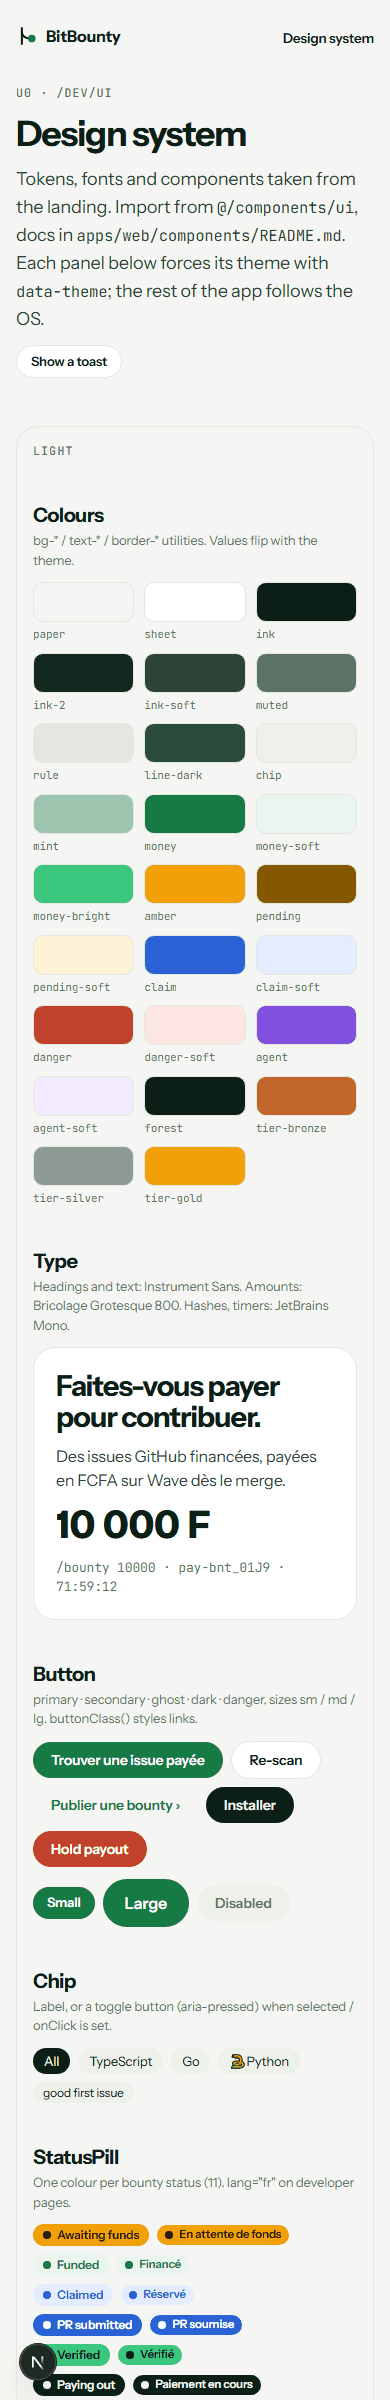
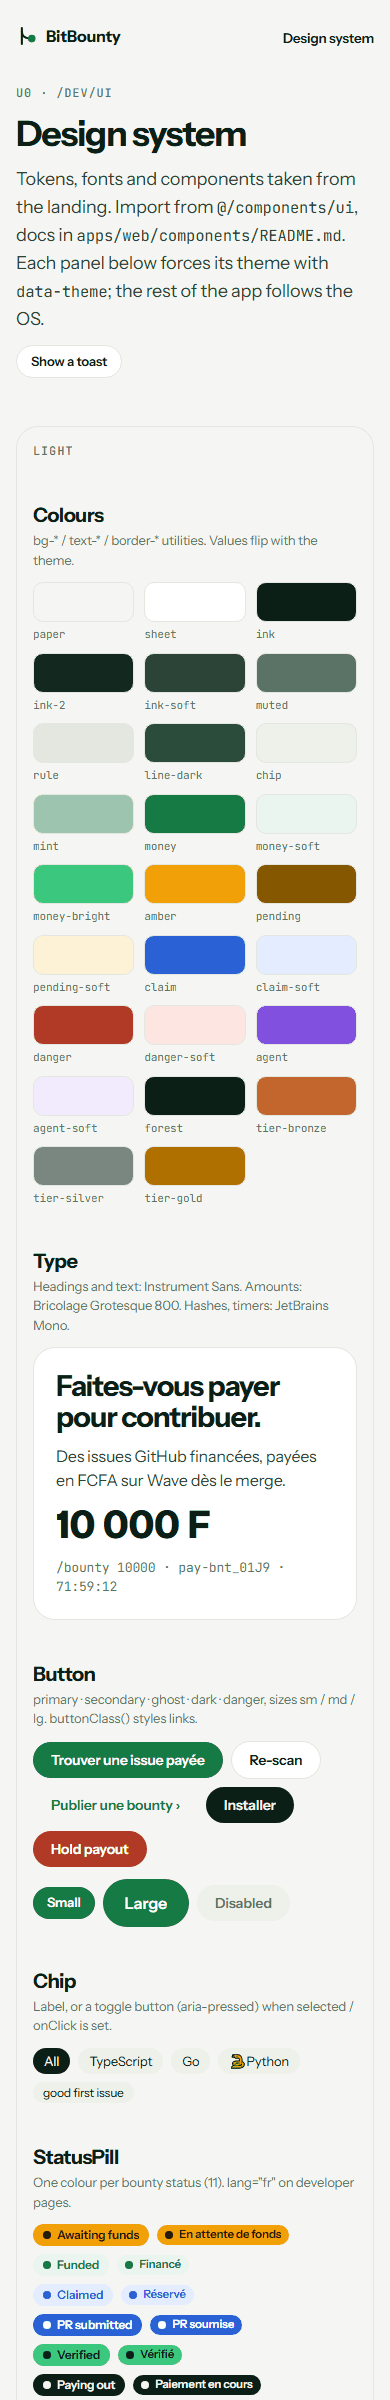
U0: review fixes (distinct dark Verified, AA pill text, live board dark tokens, Chip toggle semantics)
(cherry picked from commit 5416e1935056a137ccc1731b021429775b54f122)

Changed region(s): [[0.3692, 0.4688, 0.6462, 0.5], [0.0308, 0.9688, 0.1538, 1.0]]

diff --git a/apps/web/app/globals.css b/apps/web/app/globals.css
@@ -28,20 +28,22 @@
   --bb-money-strong: #0e5a32;
   --bb-money-soft: #e9f5ee;
   --bb-money-bright: #3cc77e;
+  --bb-bright: #3cc77e;
   --bb-amber: #f2a007;
   --bb-on-amber: #2b1a00;
   --bb-pending: #855800;
   --bb-pending-soft: #fdf1d6;
   --bb-claim: #2a62d6;
   --bb-claim-soft: #e4edff;
-  --bb-danger: #c2412d;
+  --bb-danger: #b13a26;
   --bb-danger-soft: #fde6e1;
   --bb-agent: #8250df;
   --bb-agent-soft: #f1ebfd;
+  --bb-agent-strong: #7444d4;
 
   --bb-tier-bronze: #c2662d;
-  --bb-tier-silver: #8e9a94;
-  --bb-tier-gold: #f2a007;
+  --bb-tier-silver: #7a8781;
+  --bb-tier-gold: #b07000;
 
   --bb-forest: #0b1f17;
   --bb-on-forest: #f4f5f1;
@@ -62,6 +64,7 @@
     --bb-money: #3cc77e;
     --bb-money-strong: #6ad99c;
     --bb-money-soft: #133a28;
+    --bb-bright: #a7e8c4;
     --bb-pending: #f2b440;
     --bb-pending-soft: #3a2c0b;
     --bb-claim: #82a8ff;
@@ -70,7 +73,9 @@
     --bb-danger-soft: #45201a;
     --bb-agent: #b392f0;
     --bb-agent-soft: #2c2044;
+    --bb-agent-strong: #b392f0;
     --bb-tier-silver: #b9c4be;
+    --bb-tier-gold: #f2a007;
     --bb-on-solid: #0b1f17;
     color-scheme: dark;
   }
@@ -88,6 +93,7 @@
   --bb-money: #3cc77e;
   --bb-money-strong: #6ad99c;
   --bb-money-soft: #133a28;
+  --bb-bright: #a7e8c4;
   --bb-pending: #f2b440;
   --bb-pending-soft: #3a2c0b;
   --bb-claim: #82a8ff;
@@ -96,7 +102,9 @@
   --bb-danger-soft: #45201a;
   --bb-agent: #b392f0;
   --bb-agent-soft: #2c2044;
+  --bb-agent-strong: #b392f0;
   --bb-tier-silver: #b9c4be;
+  --bb-tier-gold: #f2a007;
   --bb-on-solid: #0b1f17;
   color-scheme: dark;
 }
@@ -116,6 +124,7 @@
   --color-money-strong: var(--bb-money-strong);
   --color-money-soft: var(--bb-money-soft);
   --color-money-bright: var(--bb-money-bright);
+  --color-bright: var(--bb-bright);
   --color-amber: var(--bb-amber);
   --color-on-amber: var(--bb-on-amber);
   --color-pending: var(--bb-pending);
@@ -126,6 +135,7 @@
   --color-danger-soft: var(--bb-danger-soft);
   --color-agent: var(--bb-agent);
   --color-agent-soft: var(--bb-agent-soft);
+  --color-agent-strong: var(--bb-agent-strong);
   --color-tier-bronze: var(--bb-tier-bronze);
   --color-tier-silver: var(--bb-tier-silver);
   --color-tier-gold: var(--bb-tier-gold);

diff --git a/apps/web/components/ui/design-system.test.tsx b/apps/web/components/ui/design-system.test.tsx
@@ -45,6 +45,13 @@ describe("tokens", () => {
     expect(names(media).length).toBeGreaterThan(15);
     for (const n of names(media)) expect(light).toContain(n);
   });
+
+  it("keeps Verified (bright) and Paid (money-solid) apart in dark mode", () => {
+    const forced = css.slice(css.indexOf('[data-theme="dark"] {'), css.indexOf("@theme inline {"));
+    const value = (name: string) => forced.match(new RegExp(`--bb-${name}: (#[0-9a-f]{6});`))?.[1];
+    expect(value("bright")).toBeDefined();
+    expect(value("bright")).not.toBe(value("money"));
+  });
 });
 
 describe("Button", () => {
@@ -67,6 +74,12 @@ describe("Chip", () => {
   it("is a toggle button with aria-pressed when selected is set", () => {
     expect(html(<Chip selected>All</Chip>)).toMatch(/^<button type="button" aria-pressed="true"[^>]*bg-ink text-paper/);
     expect(html(<Chip selected={false}>Go</Chip>)).toContain('aria-pressed="false"');
+  });
+
+  it("is a plain button, not a toggle, with only onClick", () => {
+    const out = html(<Chip onClick={() => {}}>Clear</Chip>);
+    expect(out.startsWith("<button")).toBe(true);
+    expect(out).not.toContain("aria-pressed");
   });
 });
 

diff --git a/apps/web/components/ui/tone.ts b/apps/web/components/ui/tone.ts
@@ -34,17 +34,17 @@ export const TONES: readonly Tone[] = [
 
 /** Background + text (+ border for outline), readable in light and dark. */
 export const TONE_PILL: Record<Tone, string> = {
-  neutral: "bg-chip text-muted",
+  neutral: "bg-chip text-ink-soft",
   outline: "border border-rule text-muted",
   money: "bg-money-soft text-money",
   "money-solid": "bg-money text-on-solid",
-  bright: "bg-money-bright text-forest",
+  bright: "bg-bright text-forest",
   pending: "bg-pending-soft text-pending",
   amber: "bg-amber text-on-amber",
   claim: "bg-claim-soft text-claim",
   "claim-solid": "bg-claim text-on-solid",
   danger: "bg-danger-soft text-danger",
-  agent: "bg-agent-soft text-agent",
+  agent: "bg-agent-soft text-agent-strong",
   ink: "bg-ink text-paper",
 };
 
@@ -54,7 +54,7 @@ export const TONE_DOT: Record<Tone, string> = {
   outline: "bg-muted",
   money: "bg-money",
   "money-solid": "bg-money",
-  bright: "bg-money-bright",
+  bright: "bg-bright",
   pending: "bg-pending",
   amber: "bg-amber",
   claim: "bg-claim",

diff --git a/apps/web/components/ui/chip.tsx b/apps/web/components/ui/chip.tsx
@@ -3,8 +3,8 @@ import { cx } from "./tone";
 
 export interface ChipProps extends Omit<ButtonHTMLAttributes<HTMLButtonElement>, "children"> {
   /**
-   * Toggle state. When set (true or false) or when `onClick` is passed, the chip is a <button aria-pressed>;
-   * otherwise it is a plain <span> label.
+   * Toggle state. When set (true or false) the chip is a <button aria-pressed>. With only `onClick` it is a plain
+   * button (no pressed state); with neither, a <span> label (button attributes are then ignored).
    */
   selected?: boolean;
   /** Leading icon or emoji. */
@@ -34,7 +34,7 @@ export function Chip({ selected, icon, size = "md", className, children, type = 
   return (
     <button
       type={type}
-      aria-pressed={!!selected}
+      aria-pressed={selected}
       className={cx(classes, "transition disabled:cursor-not-allowed disabled:opacity-50", !selected && "hover:bg-rule")}
       {...rest}
     >

diff --git a/apps/web/components/ui/index.ts b/apps/web/components/ui/index.ts
@@ -22,8 +22,8 @@ export { EmptyState, ErrorState, LoadingState, Skeleton } from "./states";
 export type { EmptyStateProps, SkeletonProps } from "./states";
 export { BOUNTY_STATUSES, STATUS_META, statusMeta } from "./status";
 export type { BountyStatus, StatusMeta } from "./status";
-export { StatusPill } from "./status-pill";
-export type { StatusPillProps } from "./status-pill";
+export { StatusBadge, StatusPill } from "./status-pill";
+export type { StatusPillProps, StatusPillProps as StatusBadgeProps } from "./status-pill";
 export { Table, TBody, Td, Th, THead, Tr } from "./table";
 export type { TdProps, TrProps } from "./table";
 export { Toast } from "./toast";

diff --git a/apps/web/components/ui/avatar.tsx b/apps/web/components/ui/avatar.tsx
@@ -1,7 +1,7 @@
 import { cx } from "./tone";
 
-/** Initials backgrounds: the landing's avatar orange plus the palette's strong tones (white text on all). */
-const AVATAR_COLORS = ["#c2662d", "#167a45", "#2a62d6", "#8250df", "#13291f", "#b04a2f"];
+/** Initials backgrounds: the landing's avatar orange (a shade darker for AA) and the palette's strong tones; white text passes on all. */
+const AVATAR_COLORS = ["#b35b25", "#167a45", "#2a62d6", "#7444d4", "#0e5a32", "#b13a26"];
 
 /** Hunter tier (U3: from paid bounties). Drawn as a coloured ring around the avatar. */
 export type Tier = "bronze" | "silver" | "gold";

diff --git a/apps/web/components/ui/toaster.tsx b/apps/web/components/ui/toaster.tsx
@@ -26,7 +26,7 @@ export function ToastProvider({ children }: { children: ReactNode }) {
   return (
     <ToastContext.Provider value={show}>
       {children}
-      <div className="pointer-events-none fixed inset-x-4 bottom-4 z-50 grid justify-items-center gap-2 sm:left-auto sm:right-6 sm:justify-items-end">
+      <div aria-live="polite" className="pointer-events-none fixed inset-x-4 bottom-4 z-50 grid justify-items-center gap-2 sm:left-auto sm:right-6 sm:justify-items-end">
         {items.map((t) => (
           <ToastItem key={t.id} item={t} onDismiss={dismiss} />
         ))}

diff --git a/apps/web/app/dev/ui/page.tsx b/apps/web/app/dev/ui/page.tsx
@@ -212,8 +212,8 @@ function Showcase() {
           <Avatar initials="A" size="sm" />
           <Avatar initials="MS" />
           <Avatar initials="AN" size="lg" tier="bronze" label="@awa, Bronze tier" />
-          <Avatar initials="KD" size="lg" tier="silver" />
-          <Avatar initials="FS" size="xl" tier="gold" />
+          <Avatar initials="KD" size="lg" tier="silver" label="@khady, Silver tier" />
+          <Avatar initials="FS" size="xl" tier="gold" label="@fatou, Gold tier" />
         </div>
       </Block>
 

diff --git a/apps/web/components/ui/amount.tsx b/apps/web/components/ui/amount.tsx
@@ -35,6 +35,7 @@ export interface AmountProps {
   size?: "sm" | "md" | "lg" | "xl";
   /** Money green (landed money). */
   money?: boolean;
+  /** On the big number when it is alone, on the two-line wrapper when a second currency is shown. */
   className?: string;
 }
 

diff --git a/apps/web/components/ui/status-pill.tsx b/apps/web/components/ui/status-pill.tsx
@@ -27,3 +27,6 @@ export function StatusPill({ status, lang = "en", size = "md", className }: Stat
     </Pill>
   );
 }
+
+/** @deprecated W1 name, kept so open branches keep compiling. Use StatusPill. */
+export const StatusBadge = StatusPill;

diff --git a/apps/web/components/README.md b/apps/web/components/README.md
@@ -9,7 +9,8 @@ Components are server components unless noted; wrap them in your own client comp
 Raw values on `--bb-*`, redefined for dark mode, exposed to Tailwind through `@theme inline`. Use the utilities (`bg-paper`, `text-ink`, `border-rule`…) and dark mode comes for free.
 
 - **Dark mode** follows the OS, or force it with `data-theme="dark|light"` on `<html>` **or on any element** (a subtree can be themed; `/dev/ui` does this). Give a themed subtree `bg-paper text-ink`.
-- **Dark palette** = the landing's dark band: ink background, ink-2 cards, line-dark hairlines, mint secondary text.
+- **Dark palette** = the landing's dark band: ink page, deep-green (`#13291F`, landing ink-2) cards, line-dark hairlines, mint secondary text.
+- Hex values only appear in `globals.css` and in fixed mockup colours (PhoneFrame bezel/notification, Avatar initials backgrounds).
 
 | Utility | Landing name | Light / dark | Use |
 |---|---|---|---|
@@ -24,14 +25,15 @@ Raw values on `--bb-*`, redefined for dark mode, exposed to Tailwind through `@t
 | `chip` | chip | `#EEF0EA` / `#1F3A2D` | chips, neutral pills |
 | `mint` | mint | `#9DC4AE` | text on dark surfaces (constant) |
 | `money`, `money-soft`, `money-strong` | green | `#167A45` / `#3CC77E` | money held or landed, primary buttons (`money-strong` = hover) |
-| `money-bright` | green-bright | `#3CC77E` | checks passed, "paying" (constant) |
+| `money-bright` | green-bright | `#3CC77E` | bright green on dark surfaces, /live (constant) |
+| `bright` | green-bright | `#3CC77E` / `#A7E8C4` | the Verified pill fill (paler in dark so it never matches Paid) |
 | `amber`, `on-amber` | amber | `#F2A007` on `#2B1A00` | awaiting funds (solid tag, constant) |
 | `pending`, `pending-soft` | (amber, text-safe) | `#855800` / `#F2B440` | on hold, warnings |
 | `claim`, `claim-soft` | (app only) | blue | a developer is on it |
 | `danger`, `danger-soft` | (app only) | red | payout failed, errors |
-| `agent`, `agent-soft` | purple | `#8250DF` / `#B392F0` | funded by an AI agent |
-| `tier-bronze/silver/gold` | | | Avatar tier rings (U3) |
-| `forest`, `on-forest` | ink | `#0B1F17` / `#F4F5F1` (constant) | always-dark surfaces: /live, toasts |
+| `agent`, `agent-soft`, `agent-strong` | purple | `#8250DF` / `#B392F0` | funded by an AI agent (`agent-strong` = AA text on `agent-soft`) |
+| `tier-bronze/silver/gold` | | darker in light for 3:1 | Avatar tier rings (U3) |
+| `forest`, `on-forest` | ink | `#0B1F17` / `#F4F5F1` (constant) | always-dark surfaces: /live (also forces `data-theme="dark"`), toasts (in dark mode they sit on a same-colour page, outlined by `line-dark`) |
 | `on-solid` | | white / ink | text on a solid `money`/`danger`/`claim` fill |
 | `rounded-[var(--radius-card)]` / `--radius-card-lg` | | 16 px / 22 px | card radius (lg = landing `.card`) |
 
@@ -44,20 +46,20 @@ Raw values on `--bb-*`, redefined for dark mode, exposed to Tailwind through `@t
 | `Button` / `buttonClass()` | `variant?: "primary" \| "secondary" \| "ghost" \| "dark" \| "danger"`, `size?: "sm" \| "md" \| "lg"`, `block?` + button attrs | Pill buttons. primary = landing green, secondary = hairline, ghost = green text link, dark = ink pill ("Installer"). `buttonClass({...})` styles a `<Link>`/`<a>` |
 | `Card` | `emphasis?`, `padding?: "none" \| "sm" \| "md" \| "lg"`, `as?` + attrs | White sheet, hairline border; `lg` gets the 22 px radius |
 | `StatCard` | `label`, `value`, `sub?`, `money?`, `emphasis?` | Big Bricolage number + label |
-| `Chip` | `selected?`, `onClick?`, `icon?`, `size?: "sm" \| "md"` + button attrs | Landing chip. With `selected` (true/false) or `onClick` it is a `<button aria-pressed>` toggle (filters, stack picker); otherwise a `<span>` label |
-| `StatusPill` | `status: BountyStatus`, `lang?: "en" \| "fr"`, `size?` | One distinct colour per bounty status (table below) |
+| `Chip` | `selected?`, `onClick?`, `icon?`, `size?: "sm" \| "md"` + button attrs | Landing chip. With `selected` (true/false) it is a `<button aria-pressed>` toggle (filters, stack picker); with only `onClick` a plain button; otherwise a `<span>` label (button attrs ignored) |
+| `StatusPill` | `status: BountyStatus`, `lang?: "en" \| "fr"`, `size?` | One distinct colour per bounty status (table below). `StatusBadge` is a deprecated alias |
 | `STATUS_META` / `statusMeta()` | `Record<BountyStatus, {tone, label, labelFr, hint}>` | Same mapping for custom renderings (lanes, dots) |
 | `Pill` | `tone?: Tone`, `dot?`, `size?` + span attrs | Free-form tag in any tone |
 | `Dot` | `tone?`, `pulse?` | Coloured dot ("live") |
 | `Tag` | children | Small square tag (labels on rows) |
-| `Amount` / `formatXof()` / `formatSats()` / `formatNgn()` | `xof`, `sats?`, `ngn?`, `currency?: "xof" \| "ngn" \| "sats"`, `size?: "sm" \| "md" \| "lg" \| "xl"`, `money?` | FCFA big (Bricolage) + sats small (mono) when `sats` is passed. `currency` puts the user's preferred currency big and FCFA small; falls back to FCFA when that value isn't passed. No conversion inside: pass the amounts you have. Without `sats`/`ngn` it renders exactly one span, as before |
+| `Amount` / `formatXof()` / `formatSats()` / `formatNgn()` | `xof`, `sats?`, `ngn?`, `currency?: "xof" \| "ngn" \| "sats"`, `size?: "sm" \| "md" \| "lg" \| "xl"`, `money?` | FCFA big (Bricolage) + sats small (mono) when `sats` is passed. `currency` puts the user's preferred currency big and FCFA small; falls back to FCFA when that value isn't passed. No conversion inside: pass the amounts you have. Without `sats`/`ngn` it renders exactly one span, as before; with a second line, `className` goes on the wrapper |
 | `Avatar` | `initials`, `src?`, `size?: "sm" \| "md" \| "lg" \| "xl"`, `color?`, `tier?: "bronze" \| "silver" \| "gold"`, `label?` | Photo or initials; `tier` draws a ring with a transparent gap. Decorative unless `label` is given |
 | `ProgressSteps` | `steps: {label, done?, at?}[]`, `current?: number`, `label?` | Numbered steps joined by a rail, ✓ when done, green ring on `current`. Onboarding 1·2·3, bounty lifecycle |
 | `EmptyState` | `title`, children (body), `action?`, `icon?`, `align?: "start" \| "center"` | Dashed "nothing here yet" box |
 | `Skeleton` | `className` (size/shape) | Pulsing placeholder, hidden from screen readers, static with reduced motion |
 | `LoadingState`, `ErrorState` | `label?` / `title?`, `message`, `action?` | Route-level loading and error screens (I1) |
 | `Toast` | `tone?: "info" \| "success" \| "error"`, `title`, children, `action?`, `onClose?` | Dark notification card (landing `.notif`), `role="alert"` for errors |
-| `ToastProvider` / `useToast()` | `toast({ tone, title, children, action, duration? })` | Client. Provider is mounted in `app/layout.tsx`; call `useToast()` from any client component. `duration` ms, default 5000, 0 = sticky; 3 visible max |
+| `ToastProvider` / `useToast()` | `toast({ tone, title, children, action, duration? })` | Client. Provider is mounted in `app/layout.tsx` (polite live region); call `useToast()` from any client component. `duration` ms, default 5000, 0 = sticky; 3 visible max |
 | `Page` | `nav?: AppNavProps`, `width?: "narrow" \| "default" \| "wide"` | Page container, 16 px gutter on phones, optional top nav |
 | `AppNav` | `items?`, `active?`, `initials?`, `right?` | Top bar (mark + links + avatar) |
 | `Mark` | `label?` | Landing logo ("b" stroke + green dot) + wordmark |
@@ -78,7 +80,7 @@ Raw values on `--bb-*`, redefined for dark mode, exposed to Tailwind through `@t
 | funded | money | soft green | Funded | Financé |
 | claimed | claim | soft blue | Claimed | Réservé |
 | submitted | claim-solid | solid blue | PR submitted | PR soumise |
-| verified | bright | bright green (landing ticks) | Verified | Vérifié |
+| verified | bright | bright green (landing ticks), pale green in dark | Verified | Vérifié |
 | paying | ink | ink pill | Paying out | Paiement en cours |
 | paid | money-solid | solid green | Paid | Payé |
 | on_hold | pending | soft amber | On hold | En pause |
@@ -86,7 +88,7 @@ Raw values on `--bb-*`, redefined for dark mode, exposed to Tailwind through `@t
 | refunded | neutral | grey chip | Refunded | Remboursé |
 | cancelled | outline | hairline only | Cancelled | Annulé |
 
-`STATUS_META` is typed `Record<BountyStatus, …>`: a new status in `@bitbounty/core` fails the typecheck until it gets a pill; a test checks that no two statuses share a tone. Tests: `components/ui/ui.test.tsx`, `components/ui/design-system.test.tsx`.
+`STATUS_META` is typed `Record<BountyStatus, …>`: a new status in `@bitbounty/core` fails the typecheck until it gets a pill; tests check that no two statuses share a tone and that Verified and Paid stay apart in dark mode. Tests: `components/ui/ui.test.tsx`, `components/ui/design-system.test.tsx`.
 
 ## Note on `@bitbounty/core`
 
